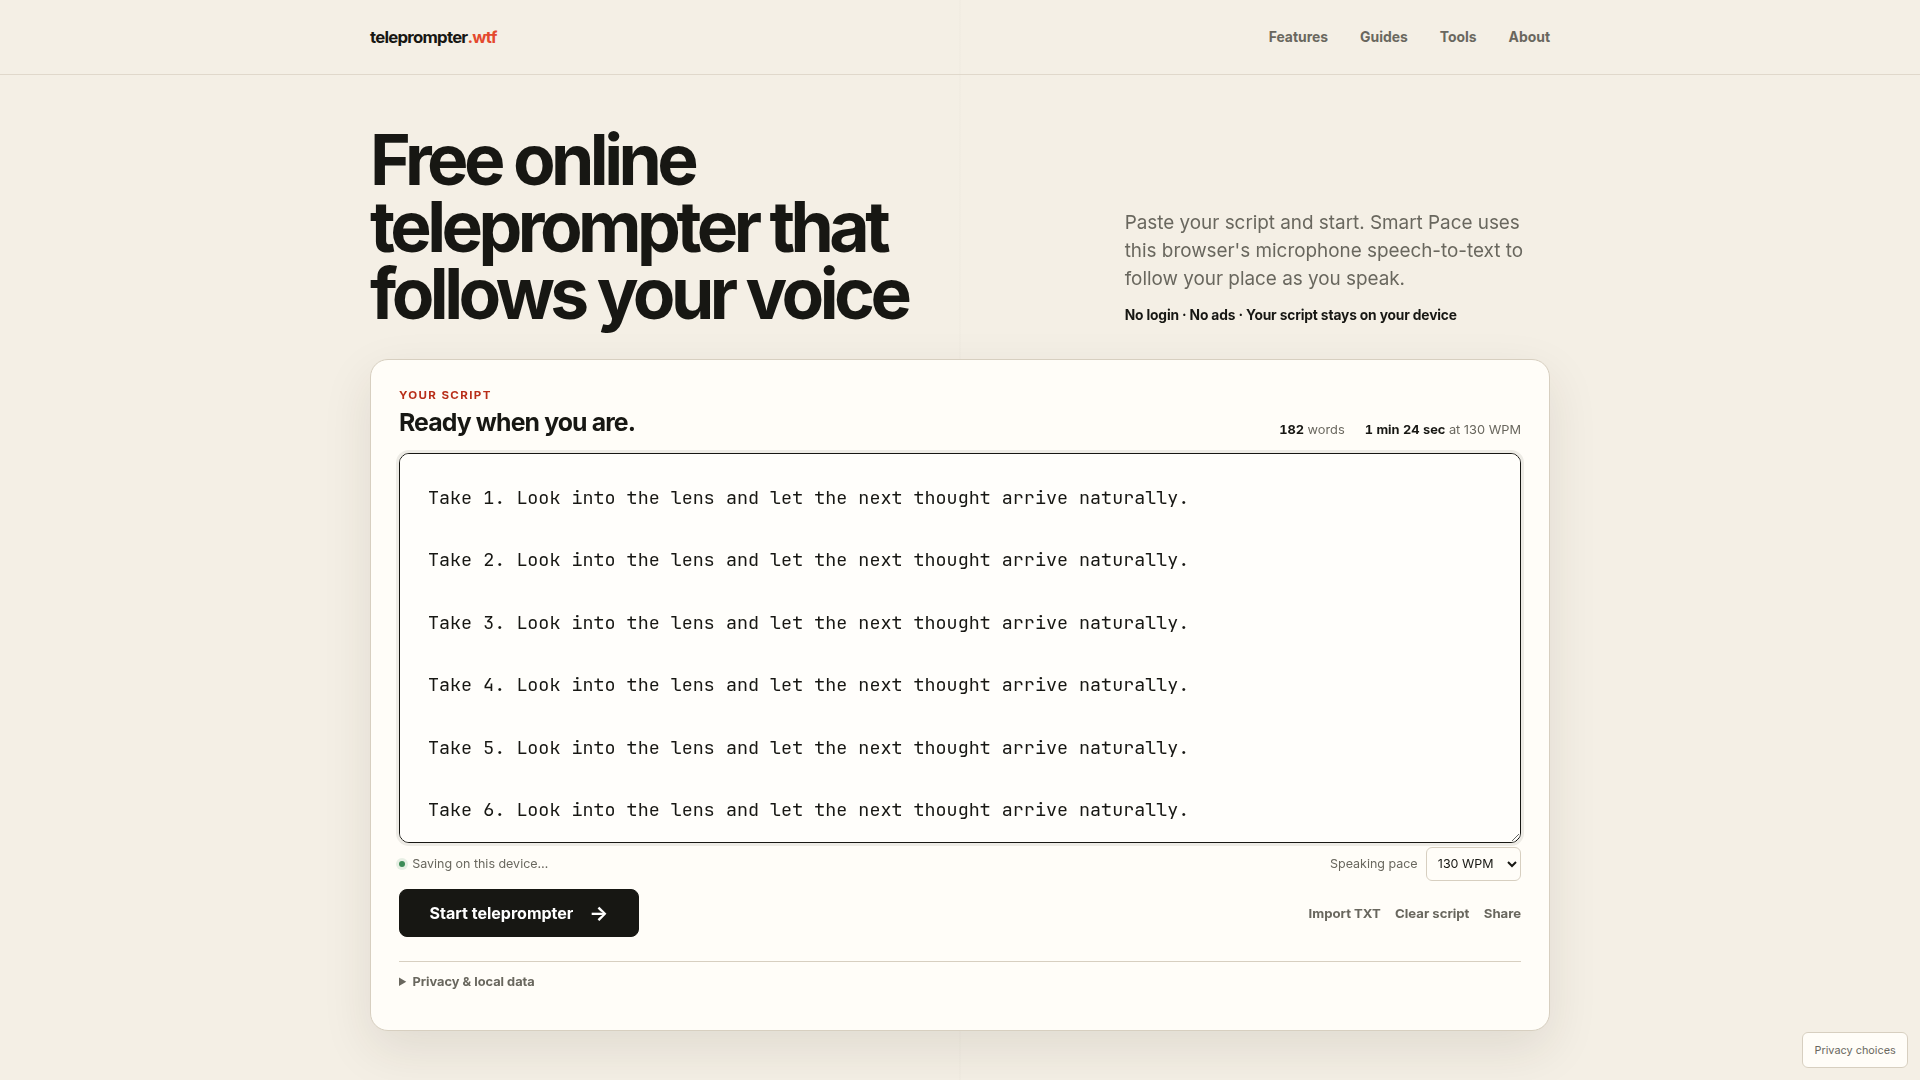
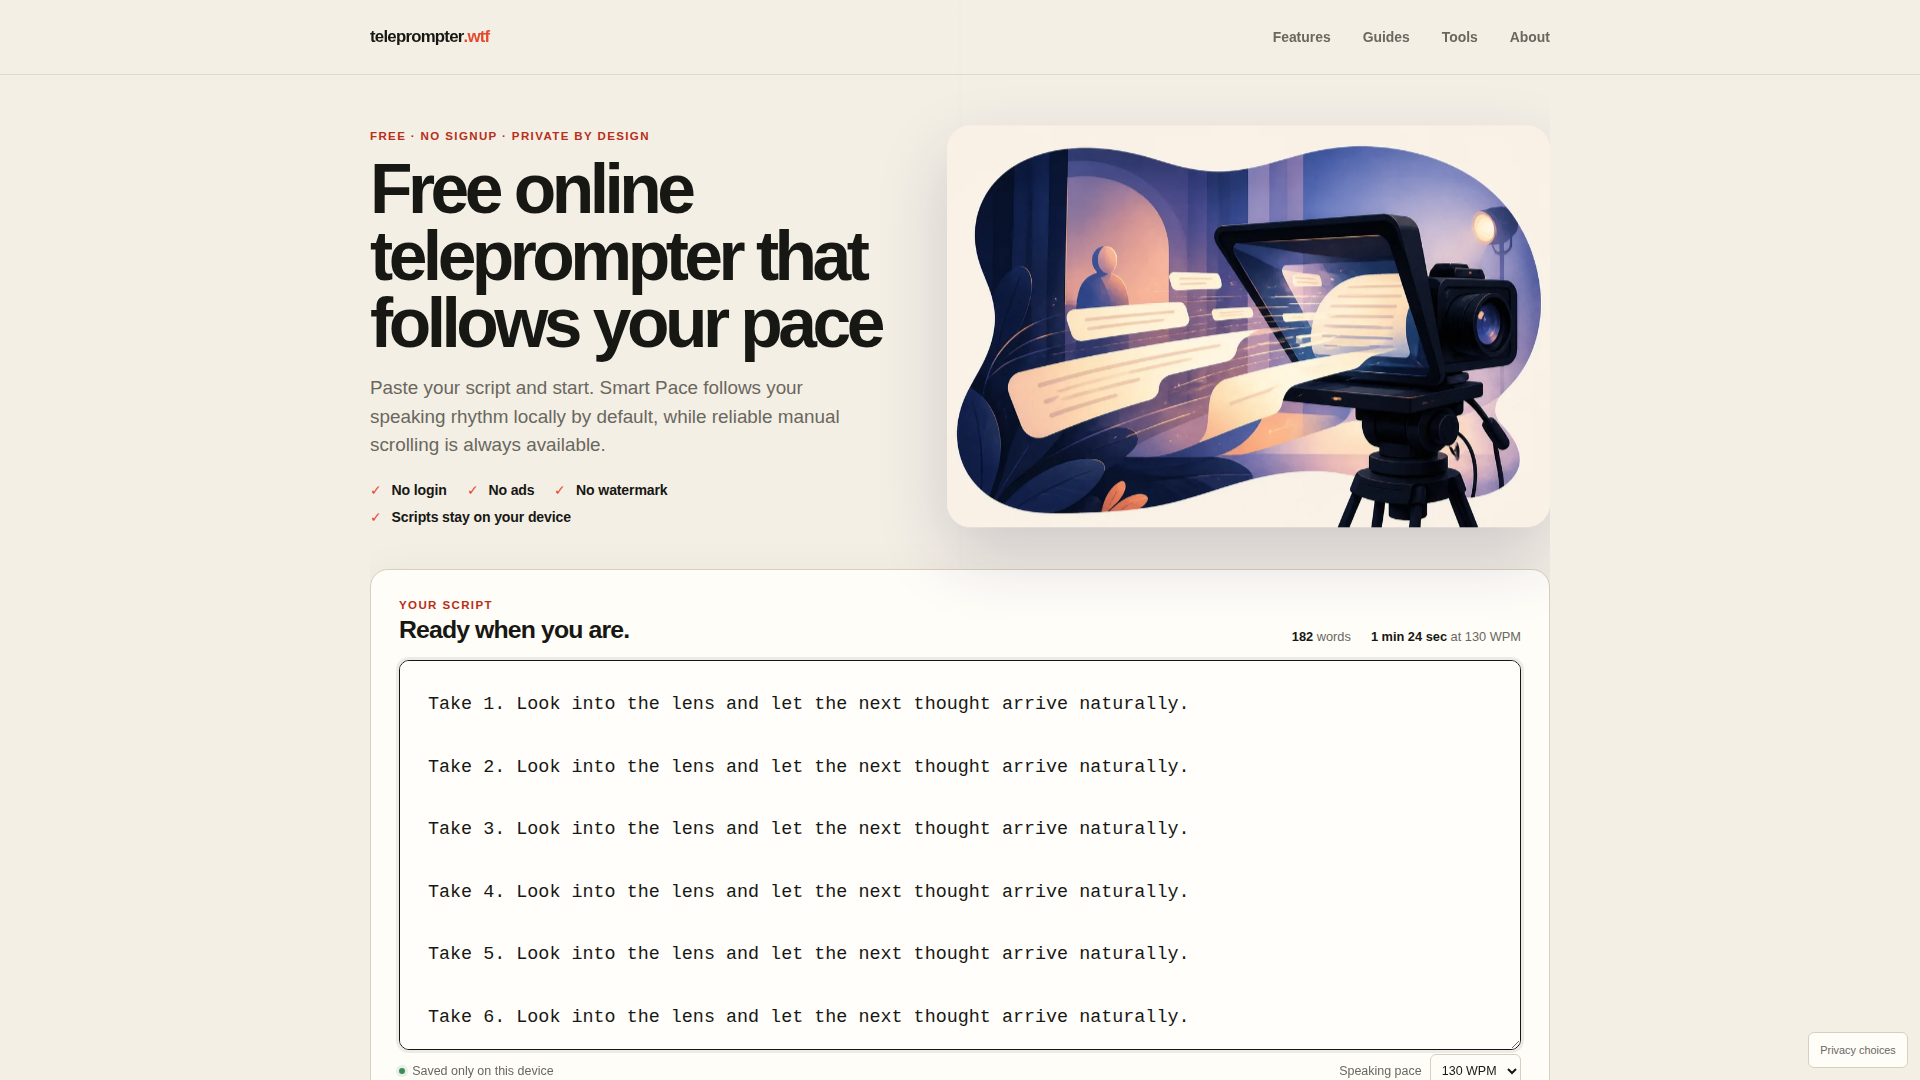
test: cover guide embeds, the working 404, and hero image contract
- New guides-embed spec: all 21 guide pages render exactly one inert-until-
  hydrated embed with a sample script; deep interaction flows on three
  representative guides including the mirror preset and storage isolation
- New not-found spec: real 404 status, noindex, eager embed hydration,
  keyboard and touch flows, and a reduced-motion pass
- Visual spec captures hero, guide embed, and 404 states at 1440 and 390
- Scope an over-broad text locator in advanced-features and update the
  analytics dormancy test to the hardcoded Umami configuration: consent is
  always offered, nothing loads before an explicit opt-in

diff --git a/tests/guides-embed.spec.ts b/tests/guides-embed.spec.ts
@@ -1,0 +1,149 @@
+import { expect, test } from '@playwright/test';
+
+// Keep in sync with the slugs in src/content/guides.ts.
+const guideSlugs = [
+  'how-to-use-a-teleprompter',
+  'teleprompter-for-youtube',
+  'teleprompter-for-video-recording',
+  'teleprompter-camera-distance-and-font-size',
+  'teleprompter-for-presentations',
+  'teleprompter-for-zoom',
+  'teleprompter-speed',
+  'what-is-a-teleprompter',
+  'how-to-read-a-teleprompter-naturally',
+  'how-to-maintain-eye-contact',
+  'how-to-format-a-teleprompter-script',
+  'voice-activated-teleprompters',
+  'manual-vs-voice-activated-teleprompter',
+  'teleprompter-for-phone-and-tablet',
+  'teleprompter-for-online-courses',
+  'teleprompter-for-podcasts',
+  'teleprompter-for-short-form-video',
+  'teleprompter-for-webinars',
+  'teleprompter-for-interviews',
+  'teleprompter-mirror-mode-glass',
+  'teleprompter-keyboard-shortcuts',
+];
+
+// Guides with a hero illustration; the rest render none.
+const guidesWithIllustration = new Set([
+  'teleprompter-for-youtube',
+  'teleprompter-for-video-recording',
+  'teleprompter-camera-distance-and-font-size',
+  'teleprompter-for-presentations',
+  'teleprompter-for-zoom',
+  'teleprompter-speed',
+  'what-is-a-teleprompter',
+  'how-to-read-a-teleprompter-naturally',
+  'how-to-maintain-eye-contact',
+  'how-to-format-a-teleprompter-script',
+  'voice-activated-teleprompters',
+  'teleprompter-for-phone-and-tablet',
+  'teleprompter-for-online-courses',
+  'teleprompter-for-podcasts',
+  'teleprompter-for-short-form-video',
+  'teleprompter-for-webinars',
+  'teleprompter-for-interviews',
+  'teleprompter-mirror-mode-glass',
+]);
+
+const PRIMARY_STORAGE_KEY = 'teleprompter-wtf.state';
+const embedStorageKey = (slug: string) => `${PRIMARY_STORAGE_KEY}:embed:guide-${slug}`;
+
+test('every guide page renders one practice embed with a sample script', async ({ page }) => {
+  test.setTimeout(120_000);
+  for (const slug of guideSlugs) {
+    const response = await page.goto(`/guides/${slug}`);
+    expect(response?.status(), slug).toBe(200);
+
+    await expect(page.locator('[data-teleprompter-embed]'), slug).toHaveCount(1);
+    const embed = page.locator(`[data-teleprompter-embed="guide-${slug}"]`);
+    await expect(embed, slug).toHaveCount(1);
+
+    const editor = embed.locator('textarea.script-editor');
+    await expect(editor, slug).toHaveCount(1);
+    // The contextual sample script is present before any interaction.
+    const sample = await editor.inputValue();
+    expect(sample.trim().length, slug).toBeGreaterThan(0);
+
+    // SSR ships the embed inert; lazy hydration (client:visible) has not run yet
+    // because the embed sits below the fold.
+    await expect(embed.locator('.editor-shell[inert]'), slug).toHaveCount(1);
+
+    const illustration = page.locator('.guide-hero-art img');
+    const hasIllustration = guidesWithIllustration.has(slug);
+    await expect(illustration, slug).toHaveCount(hasIllustration ? 1 : 0);
+    if (hasIllustration) {
+      await expect(illustration, slug).toHaveAttribute('src', /^\/illustrations\/guides\//);
+      await expect(illustration, slug).toHaveAttribute('width', '1024');
+      await expect(illustration, slug).toHaveAttribute('height', '683');
+      await expect(illustration, slug).toHaveAttribute('loading', 'lazy');
+      const alt = await illustration.getAttribute('alt');
+      expect(alt?.trim().length, slug).toBeGreaterThan(0);
+    }
+  }
+});
+
+const interactiveGuides = [
+  { slug: 'teleprompter-for-zoom', mirror: false },
+  { slug: 'teleprompter-mirror-mode-glass', mirror: true },
+  { slug: 'teleprompter-for-phone-and-tablet', mirror: false },
+];
+
+for (const { slug, mirror } of interactiveGuides) {
+  test(`practice embed on ${slug} hydrates, presents, and stays isolated`, async ({ page }) => {
+    await page.goto(`/guides/${slug}`);
+    const embed = page.locator(`[data-teleprompter-embed="guide-${slug}"]`);
+    const editor = embed.locator('textarea.script-editor');
+    const sample = await editor.inputValue();
+    expect(sample.trim().length).toBeGreaterThan(0);
+
+    await expect(embed.locator('.editor-shell[inert]')).toHaveCount(1);
+    await embed.scrollIntoViewIfNeeded();
+    await page.waitForFunction(() =>
+      document.querySelector('[data-teleprompter-embed] .editor-shell:not([inert])'),
+    );
+    await expect(embed.locator('.editor-shell[inert]')).toHaveCount(0);
+
+    await embed.getByRole('button', { name: /Start teleprompter/ }).click();
+    await expect(page.getByRole('dialog', { name: 'Teleprompter presenter' })).toBeVisible();
+    const scroller = page.getByTestId('presenter-scroll');
+    await expect(scroller).toBeVisible();
+
+    if (mirror) {
+      await expect(page.locator('.presenter__script')).toHaveCSS(
+        'transform',
+        /matrix\(-1, 0, 0, 1/,
+      );
+    }
+
+    await page.waitForTimeout(400);
+    await page.keyboard.press('Space');
+    await page.waitForTimeout(250);
+    const pausedPosition = await scroller.evaluate((element) => element.scrollTop);
+    await page.waitForTimeout(400);
+    expect(await scroller.evaluate((element) => element.scrollTop)).toBeCloseTo(pausedPosition, 0);
+
+    await page.keyboard.press('Escape');
+    await expect(scroller).toBeHidden();
+    await expect(embed.getByRole('button', { name: /Start teleprompter/ })).toBeFocused();
+
+    await expect
+      .poll(() => page.evaluate((key) => localStorage.getItem(key), embedStorageKey(slug)))
+      .toBeTruthy();
+    const stored = await page.evaluate(
+      ([primaryKey, namespacedKey]) => ({
+        primary: primaryKey ? localStorage.getItem(primaryKey) : null,
+        embed: namespacedKey ? localStorage.getItem(namespacedKey) : null,
+      }),
+      [PRIMARY_STORAGE_KEY, embedStorageKey(slug)],
+    );
+    expect(stored.primary).toBeNull();
+    const persisted = JSON.parse(stored.embed ?? '{}') as {
+      script?: string;
+      preferences?: { mirror?: boolean };
+    };
+    expect(persisted.script).toBe(sample);
+    if (mirror) expect(persisted.preferences?.mirror).toBe(true);
+  });
+}

diff --git a/tests/not-found.spec.ts b/tests/not-found.spec.ts
@@ -1,0 +1,108 @@
+import { expect, test } from '@playwright/test';
+
+const MISSING_PATH = '/this-page-is-definitely-missing';
+const EMBED_SELECTOR = '[data-teleprompter-embed="not-found"]';
+
+const waitForEmbedHydration = async (page: import('@playwright/test').Page) => {
+  await page.waitForFunction(() =>
+    document.querySelector('[data-teleprompter-embed="not-found"] .editor-shell:not([inert])'),
+  );
+};
+
+test('nonexistent URLs serve the custom 404 with noindex and artwork', async ({ page }) => {
+  const response = await page.goto(MISSING_PATH);
+  expect(response?.status()).toBe(404);
+  await expect(page.locator('meta[name="robots"]')).toHaveAttribute('content', /noindex/);
+
+  const art = page.locator('.not-found__art img');
+  await expect(art).toHaveCount(1);
+  await expect(art).toHaveAttribute('src', '/illustrations/lost-script-404.webp');
+  await expect(art).toHaveAttribute('width', '1024');
+  await expect(art).toHaveAttribute('height', '683');
+  const alt = await art.getAttribute('alt');
+  expect(alt?.trim().length).toBeGreaterThan(0);
+});
+
+test('404 embed is eagerly hydrated and fully keyboard driven', async ({ page }) => {
+  await page.goto(MISSING_PATH);
+  const embed = page.locator(EMBED_SELECTOR);
+  await expect(embed).toHaveCount(1);
+
+  // client:load hydrates immediately; no scrolling required even though the
+  // embed sits below the fold.
+  await waitForEmbedHydration(page);
+  await expect(embed.locator('.editor-shell[inert]')).toHaveCount(0);
+
+  const editor = embed.locator('textarea.script-editor');
+  const sample = await editor.inputValue();
+  expect(sample).toContain('Lost your place?');
+
+  await embed.getByRole('button', { name: /Start teleprompter/ }).click();
+  await expect(page.getByRole('dialog', { name: 'Teleprompter presenter' })).toBeVisible();
+  const scroller = page.getByTestId('presenter-scroll');
+  await expect(scroller).toBeVisible();
+
+  await page.waitForTimeout(400);
+  await page.keyboard.press('Space');
+  await page.waitForTimeout(250);
+  const pausedPosition = await scroller.evaluate((element) => element.scrollTop);
+  await page.waitForTimeout(400);
+  expect(await scroller.evaluate((element) => element.scrollTop)).toBeCloseTo(pausedPosition, 0);
+
+  await page.keyboard.press('Space');
+  await expect(page.getByRole('dialog', { name: 'Teleprompter presenter' })).toBeVisible();
+
+  await page.keyboard.press('Escape');
+  await expect(scroller).toBeHidden();
+  await expect(embed.getByRole('button', { name: /Start teleprompter/ })).toBeFocused();
+
+  await expect
+    .poll(() => page.evaluate(() => localStorage.getItem('teleprompter-wtf.state:embed:not-found')))
+    .toBeTruthy();
+  expect(await page.evaluate(() => localStorage.getItem('teleprompter-wtf.state'))).toBeNull();
+});
+
+test('404 embed starts from a touch tap in a mobile viewport', async ({ browser, baseURL }) => {
+  const context = await browser.newContext({
+    baseURL: baseURL ?? 'http://127.0.0.1:48172',
+    viewport: { width: 390, height: 844 },
+    hasTouch: true,
+    isMobile: true,
+  });
+  const page = await context.newPage();
+  try {
+    await page.goto(MISSING_PATH);
+    const embed = page.locator(EMBED_SELECTOR);
+    await waitForEmbedHydration(page);
+    const start = embed.getByRole('button', { name: /Start teleprompter/ });
+    await start.scrollIntoViewIfNeeded();
+    const box = await start.boundingBox();
+    expect(box).toBeTruthy();
+    await page.touchscreen.tap(
+      (box?.x ?? 0) + (box?.width ?? 0) / 2,
+      (box?.y ?? 0) + (box?.height ?? 0) / 2,
+    );
+    await expect(page.getByRole('dialog', { name: 'Teleprompter presenter' })).toBeVisible();
+  } finally {
+    await context.close();
+  }
+});
+
+test('404 content stays intact with reduced motion', async ({ browser, baseURL }) => {
+  const context = await browser.newContext({
+    baseURL: baseURL ?? 'http://127.0.0.1:48172',
+    reducedMotion: 'reduce',
+  });
+  const page = await context.newPage();
+  try {
+    const response = await page.goto(MISSING_PATH);
+    expect(response?.status()).toBe(404);
+    await expect(page.locator('.not-found__art img')).toBeVisible();
+    const embed = page.locator(EMBED_SELECTOR);
+    await expect(embed).toBeVisible();
+    await waitForEmbedHydration(page);
+    await expect(embed.getByRole('button', { name: /Start teleprompter/ })).toBeVisible();
+  } finally {
+    await context.close();
+  }
+});

diff --git a/tests/visual.spec.ts b/tests/visual.spec.ts
@@ -216,3 +216,43 @@ test('capture representative visual states', async ({ page }) => {
   await page.getByRole('button', { name: /Voice tracking/ }).click();
   await page.screenshot({ path: `${screenshotDir}/private-precision.png` });
 });
+
+test('capture hero, guide embed, and not-found states', async ({ page }) => {
+  test.setTimeout(120_000);
+
+  const dismissConsent = async () => {
+    const noThanks = page.getByRole('button', { name: 'No thanks' });
+    await noThanks.waitFor({ state: 'visible', timeout: 10_000 }).catch(() => undefined);
+    if (await noThanks.isVisible().catch(() => false)) await noThanks.click();
+  };
+
+  for (const width of [1440, 390]) {
+    await page.setViewportSize({ width, height: width < 600 ? 844 : 900 });
+    await page.goto('/');
+    await dismissConsent();
+    const hero = page.locator('.home-hero');
+    await expect(hero.locator('img[fetchpriority="high"]')).toBeVisible();
+    await hero.screenshot({ path: `${artifactDir}/${width}-home-hero.png` });
+  }
+
+  const embed = page.locator('[data-teleprompter-embed="guide-teleprompter-for-zoom"]');
+  for (const width of [1440, 390]) {
+    await page.setViewportSize({ width, height: width < 600 ? 844 : 900 });
+    await page.goto('/guides/teleprompter-for-zoom');
+    await embed.scrollIntoViewIfNeeded();
+    await page.waitForFunction(() =>
+      document.querySelector('[data-teleprompter-embed] .editor-shell:not([inert])'),
+    );
+    await embed.screenshot({ path: `${artifactDir}/${width}-guide-embed.png` });
+  }
+
+  for (const width of [1440, 390]) {
+    await page.setViewportSize({ width, height: width < 600 ? 844 : 900 });
+    const response = await page.goto('/this-page-is-definitely-missing');
+    expect(response?.status()).toBe(404);
+    await page.waitForFunction(() =>
+      document.querySelector('[data-teleprompter-embed] .editor-shell:not([inert])'),
+    );
+    await page.screenshot({ path: `${artifactDir}/${width}-not-found.png`, fullPage: true });
+  }
+});

diff --git a/tests/privacy-analytics.spec.ts b/tests/privacy-analytics.spec.ts
@@ -88,7 +88,7 @@ test('no Microsoft Clarity integration remains', async ({ page }) => {
   await expect(page.locator('[data-clarity-mask]')).toHaveCount(0);
 });
 
-test('analytics interface and network request are absent when no measurement ID exists', async ({
+test('analytics stays dormant until consent even with a configured measurement ID', async ({
   page,
 }) => {
   test.skip(Boolean(process.env.PLAYWRIGHT_BASE_URL), 'The Docker E2E image includes test IDs.');
@@ -96,11 +96,16 @@ test('analytics interface and network request are absent when no measurement ID 
   page.on('request', (request) => {
     if (/google|analytics\.sabya\.pm/.test(request.url())) analyticsRequests.push(request.url());
   });
+  // Umami is configured by default (website ID and script URL are baked into the build),
+  // so the consent control is always offered. The fail-closed guarantee is that no
+  // analytics script loads and no request leaves the browser before an explicit opt-in.
+  await page.route('https://analytics.sabya.pm/**', (route) => route.abort());
+  await page.route('https://www.googletagmanager.com/**', (route) => route.abort());
   await page.goto('http://127.0.0.1:48172/');
   await expect(
-    page.getByRole('heading', { name: 'Free online teleprompter that follows your voice' }),
+    page.getByRole('heading', { name: 'Free online teleprompter that follows your pace' }),
   ).toBeVisible();
-  await expect(page.getByRole('button', { name: 'Allow analytics' })).toHaveCount(0);
+  await expect(page.getByRole('button', { name: 'Allow analytics' })).toBeVisible();
   await expect(page.locator('script[data-teleprompter-analytics]')).toHaveCount(0);
   expect(analyticsRequests).toEqual([]);
 });

diff --git a/tests/seo.spec.ts b/tests/seo.spec.ts
@@ -53,6 +53,15 @@ test('all indexable pages expose complete unique metadata', async ({ page }) => 
   }
 });
 
+test('homepage ships exactly one high-priority hero image', async ({ page }) => {
+  await page.goto('/');
+  const hero = page.locator('img[fetchpriority="high"]');
+  await expect(hero).toHaveCount(1);
+  await expect(hero).toHaveAttribute('src', '/illustrations/teleprompter-hero.webp');
+  await expect(hero).toHaveAttribute('width', '1024');
+  await expect(hero).toHaveAttribute('height', '683');
+});
+
 test('JSON-LD blocks parse as valid JSON', async ({ page }) => {
   for (const path of [
     '/',

diff --git a/tests/advanced-features.spec.ts b/tests/advanced-features.spec.ts
@@ -365,7 +365,7 @@ Feedback is still stuck in screenshots.
 `;
   await openFreshEditor(page);
   await page.getByLabel('Teleprompter script').fill(productionScript);
-  await expect(page.getByText(/spoken/)).toBeVisible();
+  await expect(page.locator('.script-stats').getByText(/spoken/)).toBeVisible();
   await expect(page.getByText(/1 beat/)).toBeVisible();
   await expect(
     page.getByText('Production script detected. Visual cues stay off the reading line.'),
